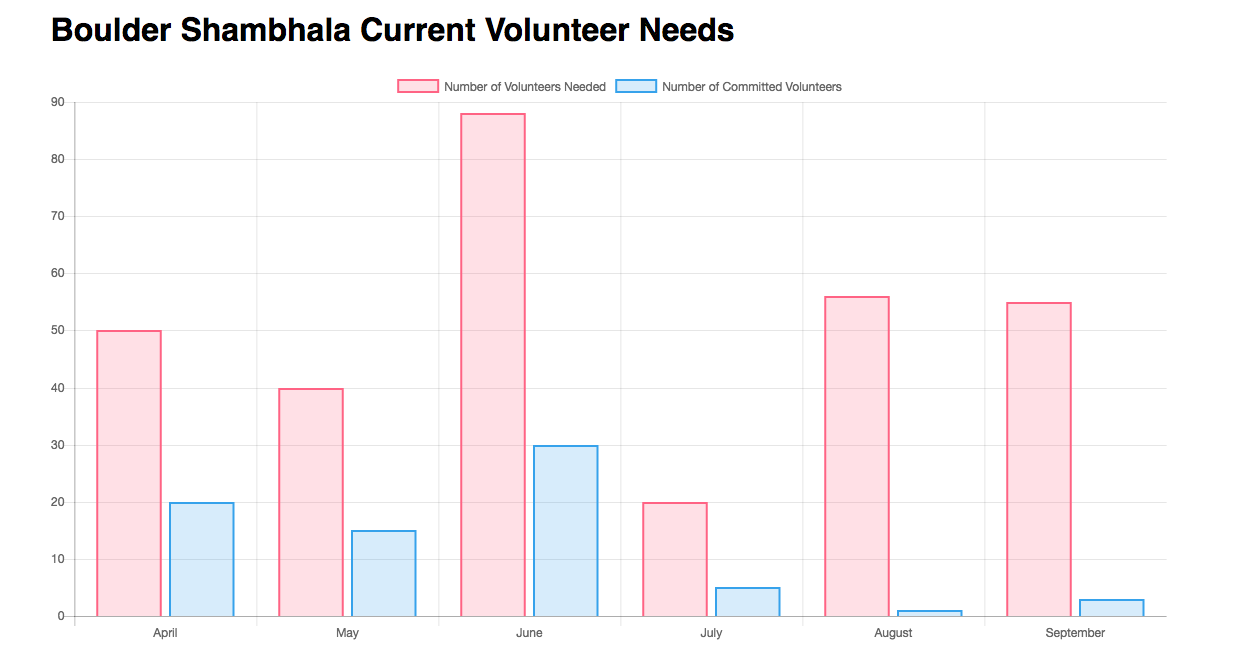
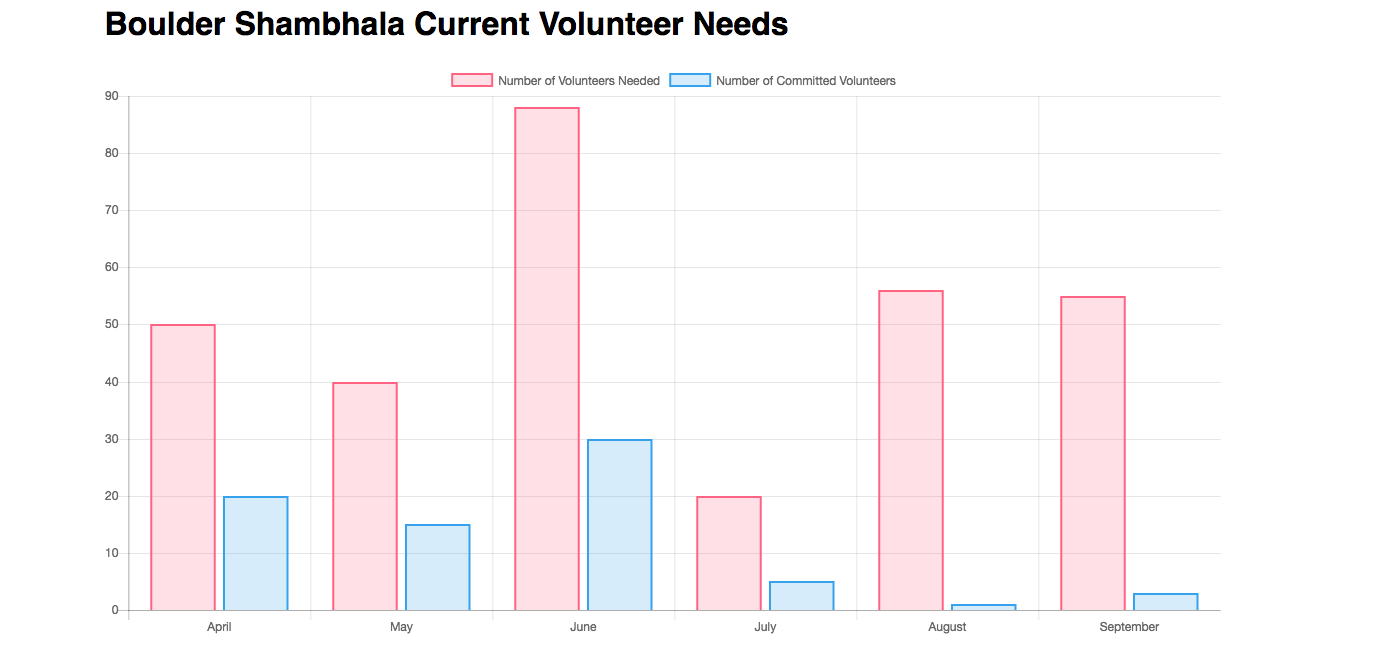
added project to portfolio page

diff --git a/portfolio.html b/portfolio.html
@@ -42,16 +42,16 @@
             <div class="mdl-grid portfolio-max-width">
                 <div class="mdl-cell mdl-card mdl-shadow--4dp portfolio-card">
                     <div class="mdl-card__media">
-                        <img class="article-image" src="images/bsmc.png" alt="">
+                      <a href="https://bsmc-volunteer-needs.firebaseapp.com/" target="_blank"><img id="bsmc-project" class="article-image" src="images/bsmc.png" alt=""></a>
                     </div>
                     <div class="mdl-card__title">
-                        <h2 class="mdl-card__title-text">Boulder Shambhala Volunteer Visualization</h2>
+                        <h2 class="mdl-card__title-text">Boulder Shambhala Center Volunteer Visualization</h2>
                     </div>
                     <div class="mdl-card__supporting-text">
-                        A tool used to visualization volunteer needs and recruit new volunteers.
+                        I am the Volunteer Chair of the Boulder Shambhala Governing Council. This is a tool used to visualization volunteer needs and recruit new volunteers.
                     </div>
                     <div class="mdl-card__actions mdl-card--border">
-                        <a class="mdl-button mdl-button--colored mdl-js-button mdl-js-ripple-effect mdl-button--accent" href="portfolio-example01.html">Read more</a>
+                        <a class="mdl-button mdl-button--colored mdl-js-button mdl-js-ripple-effect mdl-button--accent" href="portfolio-example01.html">See more</a>
                     </div>
                 </div>
 
@@ -66,7 +66,22 @@
                         From a presentation I gave at the October 2015 <a href="https://www.meetup.com/a11yFR/" target="_blank">Front Range Accessibility and Inclusive Design</a> Meetup.
                     </div>
                     <div class="mdl-card__actions mdl-card--border">
-                        <a class="mdl-button mdl-button--colored mdl-js-button mdl-js-ripple-effect mdl-button--accent" href="https://docs.google.com/presentation/d/1FJdqBLWwG78iLMszqvoe5tFbblxyJqD3ILzkDt5eCEU/edit?usp=sharing" target="_blank">See more</a>
+                        <a class="mdl-button mdl-button--colored mdl-js-button mdl-js-ripple-effect mdl-button--accent" href="https://docs.google.com/presentation/d/1FJdqBLWwG78iLMszqvoe5tFbblxyJqD3ILzkDt5eCEU/edit?usp=sharing" target="_blank"> See more</a>
+                    </div>
+                </div>
+
+                <div class="mdl-cell mdl-card mdl-shadow--4dp portfolio-card">
+                    <div class="mdl-card__media">
+                        <img class="article-image" src="images/browns-peak.jpg" border="0" alt="">
+                    </div>
+                    <div class="mdl-card__title">
+                        <h2 class="mdl-card__title-text">Coming Soon!</h2>
+                    </div>
+                    <div class="mdl-card__supporting-text">
+                        Enim labore aliqua consequat ut quis ad occaecat aliquip incididunt. Sunt nulla eu enim irure enim nostrud aliqua consectetur ad consectetur sunt ullamco officia. Ex officia laborum et consequat duis.
+                    </div>
+                    <div class="mdl-card__actions mdl-card--border">
+                        <a class="mdl-button mdl-button--colored mdl-js-button mdl-js-ripple-effect mdl-button--accent" href="portfolio-example01.html"> See more</a>
                     </div>
                 </div>
 
@@ -81,7 +96,7 @@
                         Enim labore aliqua consequat ut quis ad occaecat aliquip incididunt. Sunt nulla eu enim irure enim nostrud aliqua consectetur ad consectetur sunt ullamco officia. Ex officia laborum et consequat duis.
                     </div>
                     <div class="mdl-card__actions mdl-card--border">
-                        <a class="mdl-button mdl-button--colored mdl-js-button mdl-js-ripple-effect mdl-button--accent" href="portfolio-example01.html">Read more</a>
+                        <a class="mdl-button mdl-button--colored mdl-js-button mdl-js-ripple-effect mdl-button--accent" href="portfolio-example01.html"> See more</a>
                     </div>
                 </div>
                 <div class="mdl-cell mdl-card mdl-shadow--4dp portfolio-card">
@@ -95,7 +110,7 @@
                         Enim labore aliqua consequat ut quis ad occaecat aliquip incididunt. Sunt nulla eu enim irure enim nostrud aliqua consectetur ad consectetur sunt ullamco officia. Ex officia laborum et consequat duis.
                     </div>
                     <div class="mdl-card__actions mdl-card--border">
-                        <a class="mdl-button mdl-button--colored mdl-js-button mdl-js-ripple-effect mdl-button--accent" href="portfolio-example01.html">Read more</a>
+                        <a class="mdl-button mdl-button--colored mdl-js-button mdl-js-ripple-effect mdl-button--accent" href="portfolio-example01.html">See more</a>
                     </div>
                 </div>
                 <div class="mdl-cell mdl-card mdl-shadow--4dp portfolio-card">
@@ -109,7 +124,7 @@
                         Enim labore aliqua consequat ut quis ad occaecat aliquip incididunt. Sunt nulla eu enim irure enim nostrud aliqua consectetur ad consectetur sunt ullamco officia. Ex officia laborum et consequat duis.
                     </div>
                     <div class="mdl-card__actions mdl-card--border">
-                        <a class="mdl-button mdl-button--colored mdl-js-button mdl-js-ripple-effect mdl-button--accent" href="portfolio-example01.html">Read more</a>
+                        <a class="mdl-button mdl-button--colored mdl-js-button mdl-js-ripple-effect mdl-button--accent" href="portfolio-example01.html">See more</a>
                     </div>
                 </div>
 

diff --git a/styles.css b/styles.css
@@ -173,3 +173,8 @@ img.article-image {
   background-color: #247BA0;
   color: #f4f4f4;
 }
+
+#bsmc-project{
+  padding: 10%;
+  background-color: white;
+}
